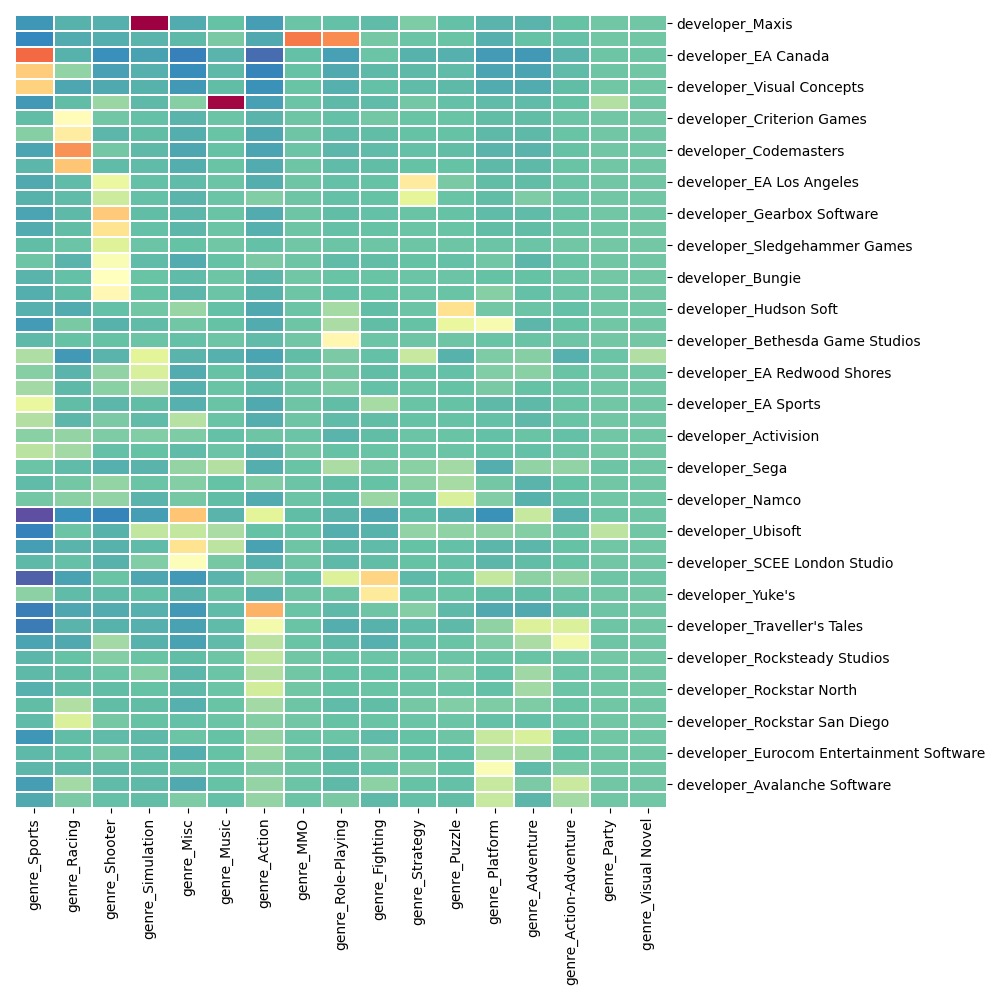
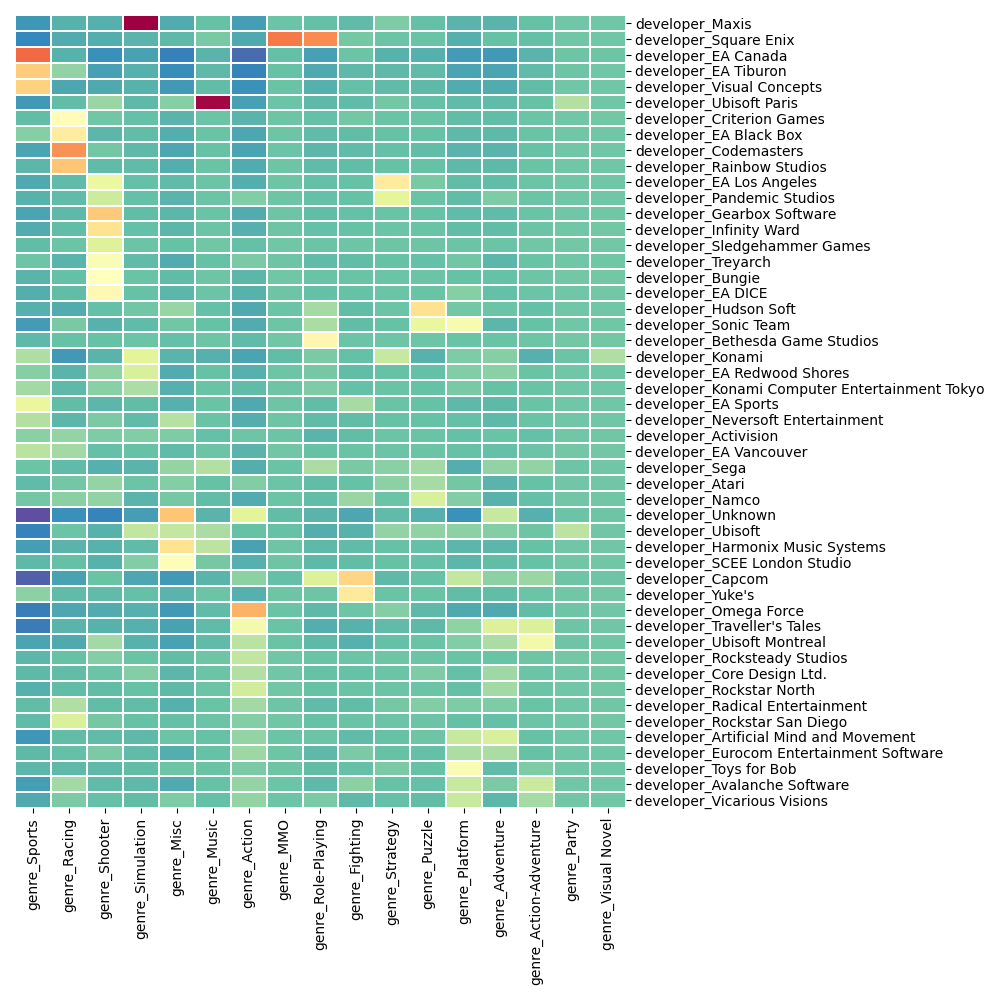
Corrstudy + Crosstab comparison

Changed region(s): [[0.031, 0.0, 0.992, 0.992]]

diff --git a/4_CorrStudy.py b/4_CorrStudy.py
@@ -1,0 +1,85 @@
+import matplotlib
+import matplotlib.pyplot as plt
+import pandas as pd
+import seaborn as sns
+import numpy as np
+from sklearn.preprocessing import LabelEncoder
+
+
+def clustermap_var_by_var(data: pd.DataFrame, var1: str, var2: str, top: int() = None):
+    sub_df = data[[var1, var2]]
+    if top is not None:
+        top_var1 = data.groupby(var1)['total_sales'].sum().nlargest(top).index
+        top_var2 = data.groupby(var2)['total_sales'].sum().nlargest(top).index
+        sub_df = sub_df[df[var1].isin(top_var1) & df[var2].isin(top_var2)]
+    sub_df = pd.get_dummies(sub_df.dropna())
+    print(f"New shape are {sub_df.shape}")
+    sub_df_corr = np.corrcoef(np.array(sub_df.T))
+    sub_df_corr = pd.DataFrame(sub_df_corr)
+    sub_df_corr.index, sub_df_corr.columns = sub_df.columns, sub_df.columns
+    filtered_corr = sub_df_corr[sub_df_corr.index.str.startswith(var1)]
+    filtered_corr = filtered_corr.iloc[:, filtered_corr.columns.str.startswith(var2)]
+    cluster_grid = sns.clustermap(filtered_corr, cmap="Spectral_r", method="complete", dendrogram_ratio=(0, 0),
+                                  linewidth=.1, cbar_pos=None, yticklabels=1, xticklabels=1)
+    return cluster_grid
+
+
+def crosstab_var_by_var(data: pd.DataFrame, var1: str, var2: str, top: int() = None):
+    sub_df = data[[var1, var2]]
+    if top is not None:
+        top_var1 = data.groupby(var1)['total_sales'].sum().nlargest(top).index
+        top_var2 = data.groupby(var2)['total_sales'].sum().nlargest(top).index
+        sub_df = sub_df[df[var1].isin(top_var1) & df[var2].isin(top_var2)]
+    sub_ct = pd.crosstab(sub_df[var1], sub_df[var2])
+    cluster_grid = sns.clustermap(sub_ct, cmap="Spectral_r", method="complete", dendrogram_ratio=(0, 0), linewidth=.1,
+                                  cbar_pos=None, yticklabels=1, xticklabels=1)
+    cluster_grid.ax_heatmap.get_xticklabels()
+    return cluster_grid
+
+
+if __name__ == "__main__":
+    # Some settings
+    matplotlib.use('TkAgg')
+
+    # Load data
+    df = pd.read_feather('./data/working/3_Cleaned_df.output.feather')
+
+    # To be able to run a correlation analysis we need to transform our categories into numerical.
+    # We will try two approaches: label encoding and one hot encoding
+
+    # 1. Label encoding:
+    le = LabelEncoder()
+    le_df = df.copy()
+    for col in le_df.columns:
+        if le_df[col].dtypes != "float64":
+            le_df[col] = le.fit_transform(le_df[col])
+
+    cor_mat = le_df.corr()
+    sns.clustermap(cor_mat, cmap="Spectral_r", figsize=(6, 6), dendrogram_ratio=(.1, .2), method="complete",
+                   linewidth=.1)
+    plt.savefig("./fig/12_LabelEncoded_clustmap.png")
+
+    # 2. OneHot Encoding:
+    # OneHot encoding consist into split a categorical variable of N categories into N variables encoded into 0 or 1.
+    # We will select some column before to be able to keep a good tracking and not overblow the plot. It will be more
+    # accurate to study correlation between genre and console or publisher and developer for example:
+    clustermap_var_by_var(data=df, var1='console', var2='genre')
+    plt.savefig("./fig/13_Console_Genre_clustmap.png")
+    clustermap_var_by_var(data=df, var1='developer', var2='publisher', top=50)
+    plt.savefig("./fig/13_Developer_Publisher_clustmap_top50.png")
+    clustermap_var_by_var(data=df, var1='developer', var2='genre', top=50)
+    plt.savefig("./fig/13_Developer_Genre_clustmap_top50.png")
+    clustermap_var_by_var(data=df, var1='publisher', var2='genre', top=50)
+    plt.savefig("./fig/13_Publisher_Genre_clustmap_top50.png")
+
+    # 3. Crosstab
+    # A last approach to check relation between two categorical variables is to use the crosstab() function.
+    # It will count the frequencies of pairs between two variables.
+    crosstab_var_by_var(data=df, var1='console', var2='genre')
+    plt.savefig("./fig/14_Console_Genre_crossmap.png")
+    crosstab_var_by_var(data=df, var1='developer', var2='publisher', top=50)
+    plt.savefig("./fig/14_Developer_Publisher_crossmap_top50.png")
+    crosstab_var_by_var(data=df, var1='developer', var2='genre', top=50)
+    plt.savefig("./fig/14_Developer_Genre_crossmap_top50.png")
+    crosstab_var_by_var(data=df, var1='publisher', var2='genre', top=50)
+    plt.savefig("./fig/14_Publisher_Genre_crossmap_top50.png")
